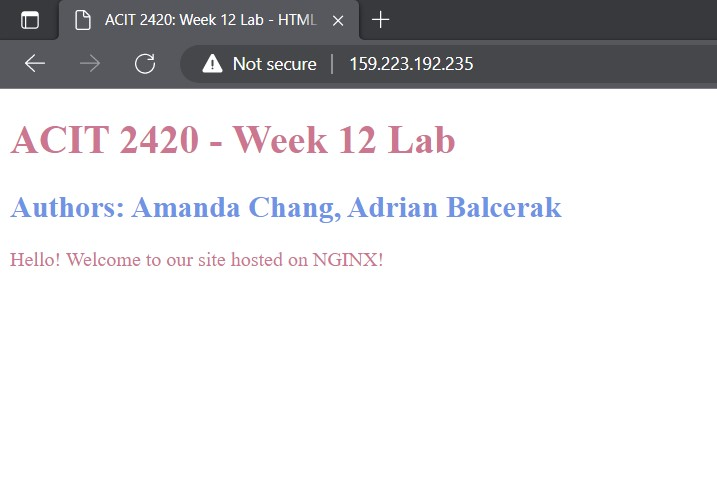
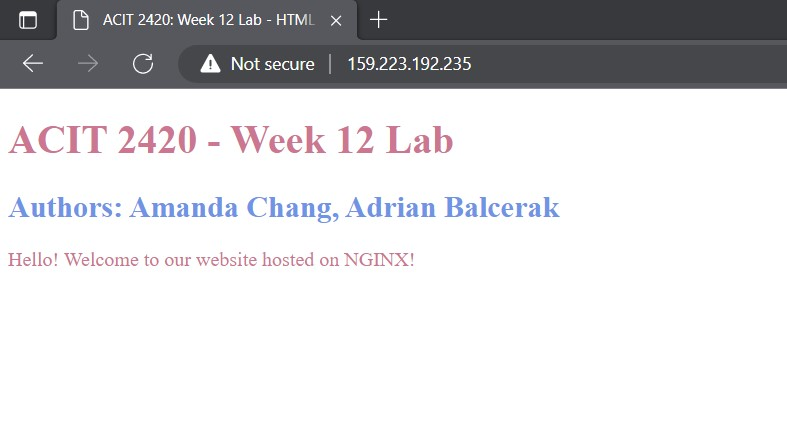
Modified README.md

Changed region(s): [[0.0, 0.3867, 0.7978, 0.6247], [0.0, 0.0, 1.0, 0.2082], [0.0, 0.238, 0.6444, 0.357]]

diff --git a/README.md b/README.md
@@ -43,17 +43,17 @@ Website is hosted on NGINX Web Server.
 ```HTML
 <!DOCTYPE html>
 <html lang="en">
-<head>
-    <meta charset="UTF-8">
-    <meta http-equiv="X-UA-Compatible" content="IE=edge">
-    <meta name="viewport" content="width=device-width, initial-scale=1.0">
-    <title>HTML For NGINX</title>
-</head>
-<body>
-    <h1 style="color:palevioletred">ACIT 2420 - Week 12 Lab</h1>
-    <h2 style="color:cornflowerblue">Authors: Amanda Chang, Adrian Balcerak</h2>
-    <p style="color:palevioletred">Hello! Welcome to our site!</p>
-</body>
+	<head>
+	    <meta charset="UTF-8">
+	    <meta http-equiv="X-UA-Compatible" content="IE=edge">
+	    <meta name="viewport" content="width=device-width, initial-scale=1.0">
+	    <title>ACIT 2420: Week 12 Lab - HTML For NGINX Web Server</title>
+	</head>
+	<body>
+	    <h1 style="color:palevioletred">ACIT 2420 - Week 12 Lab</h1>
+	    <h2 style="color:cornflowerblue">Authors: Amanda Chang, Adrian Balcerak</h2>
+	    <p style="color:palevioletred">Hello! Welcome to our website hosted on NGINX!</p>
+	</body>
 </html>
 ```
 
